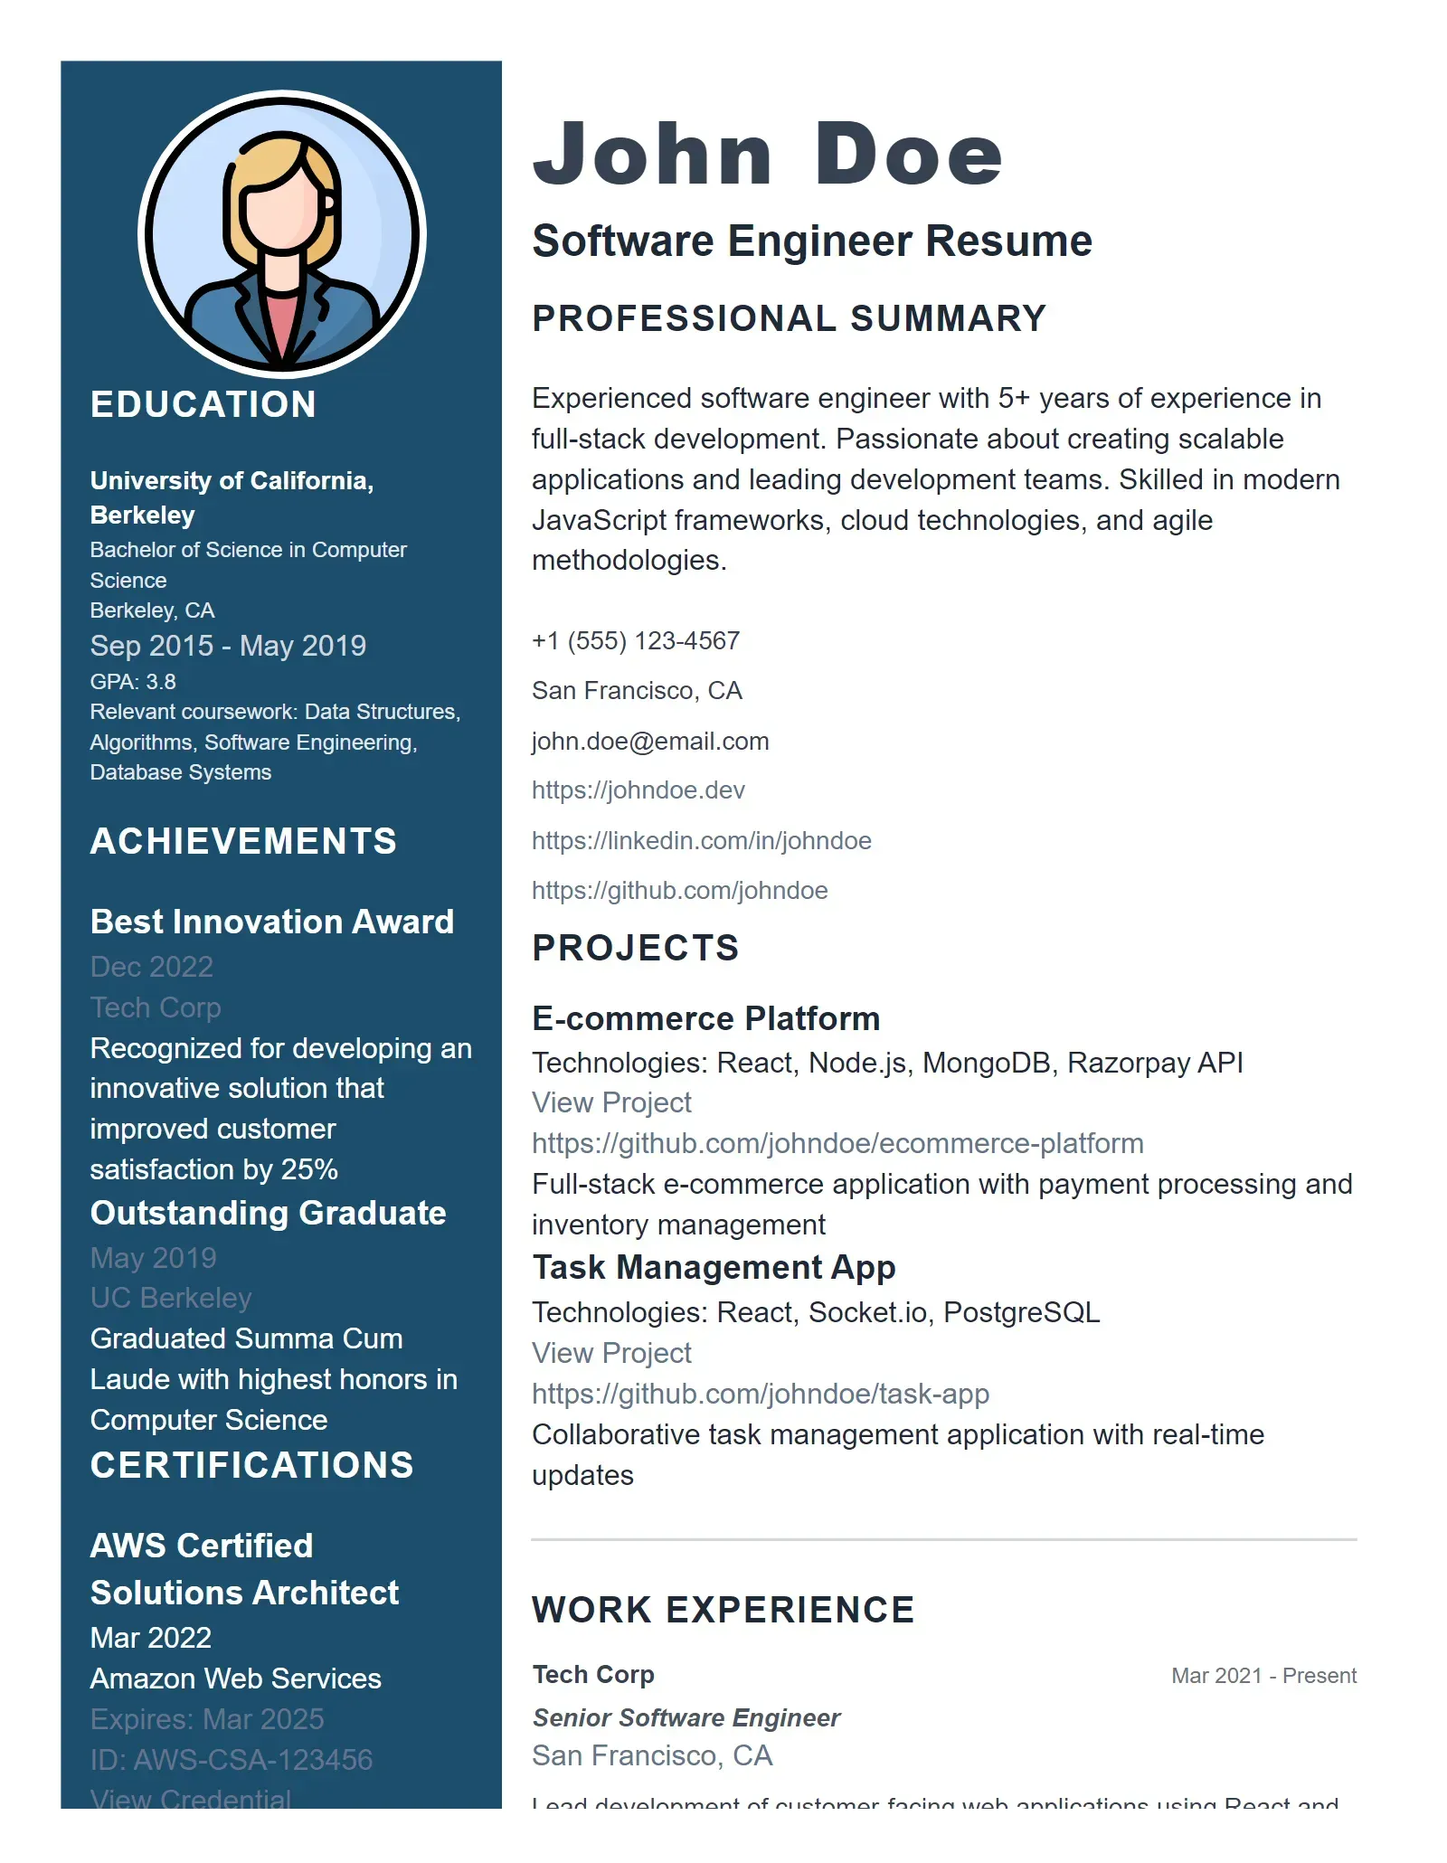
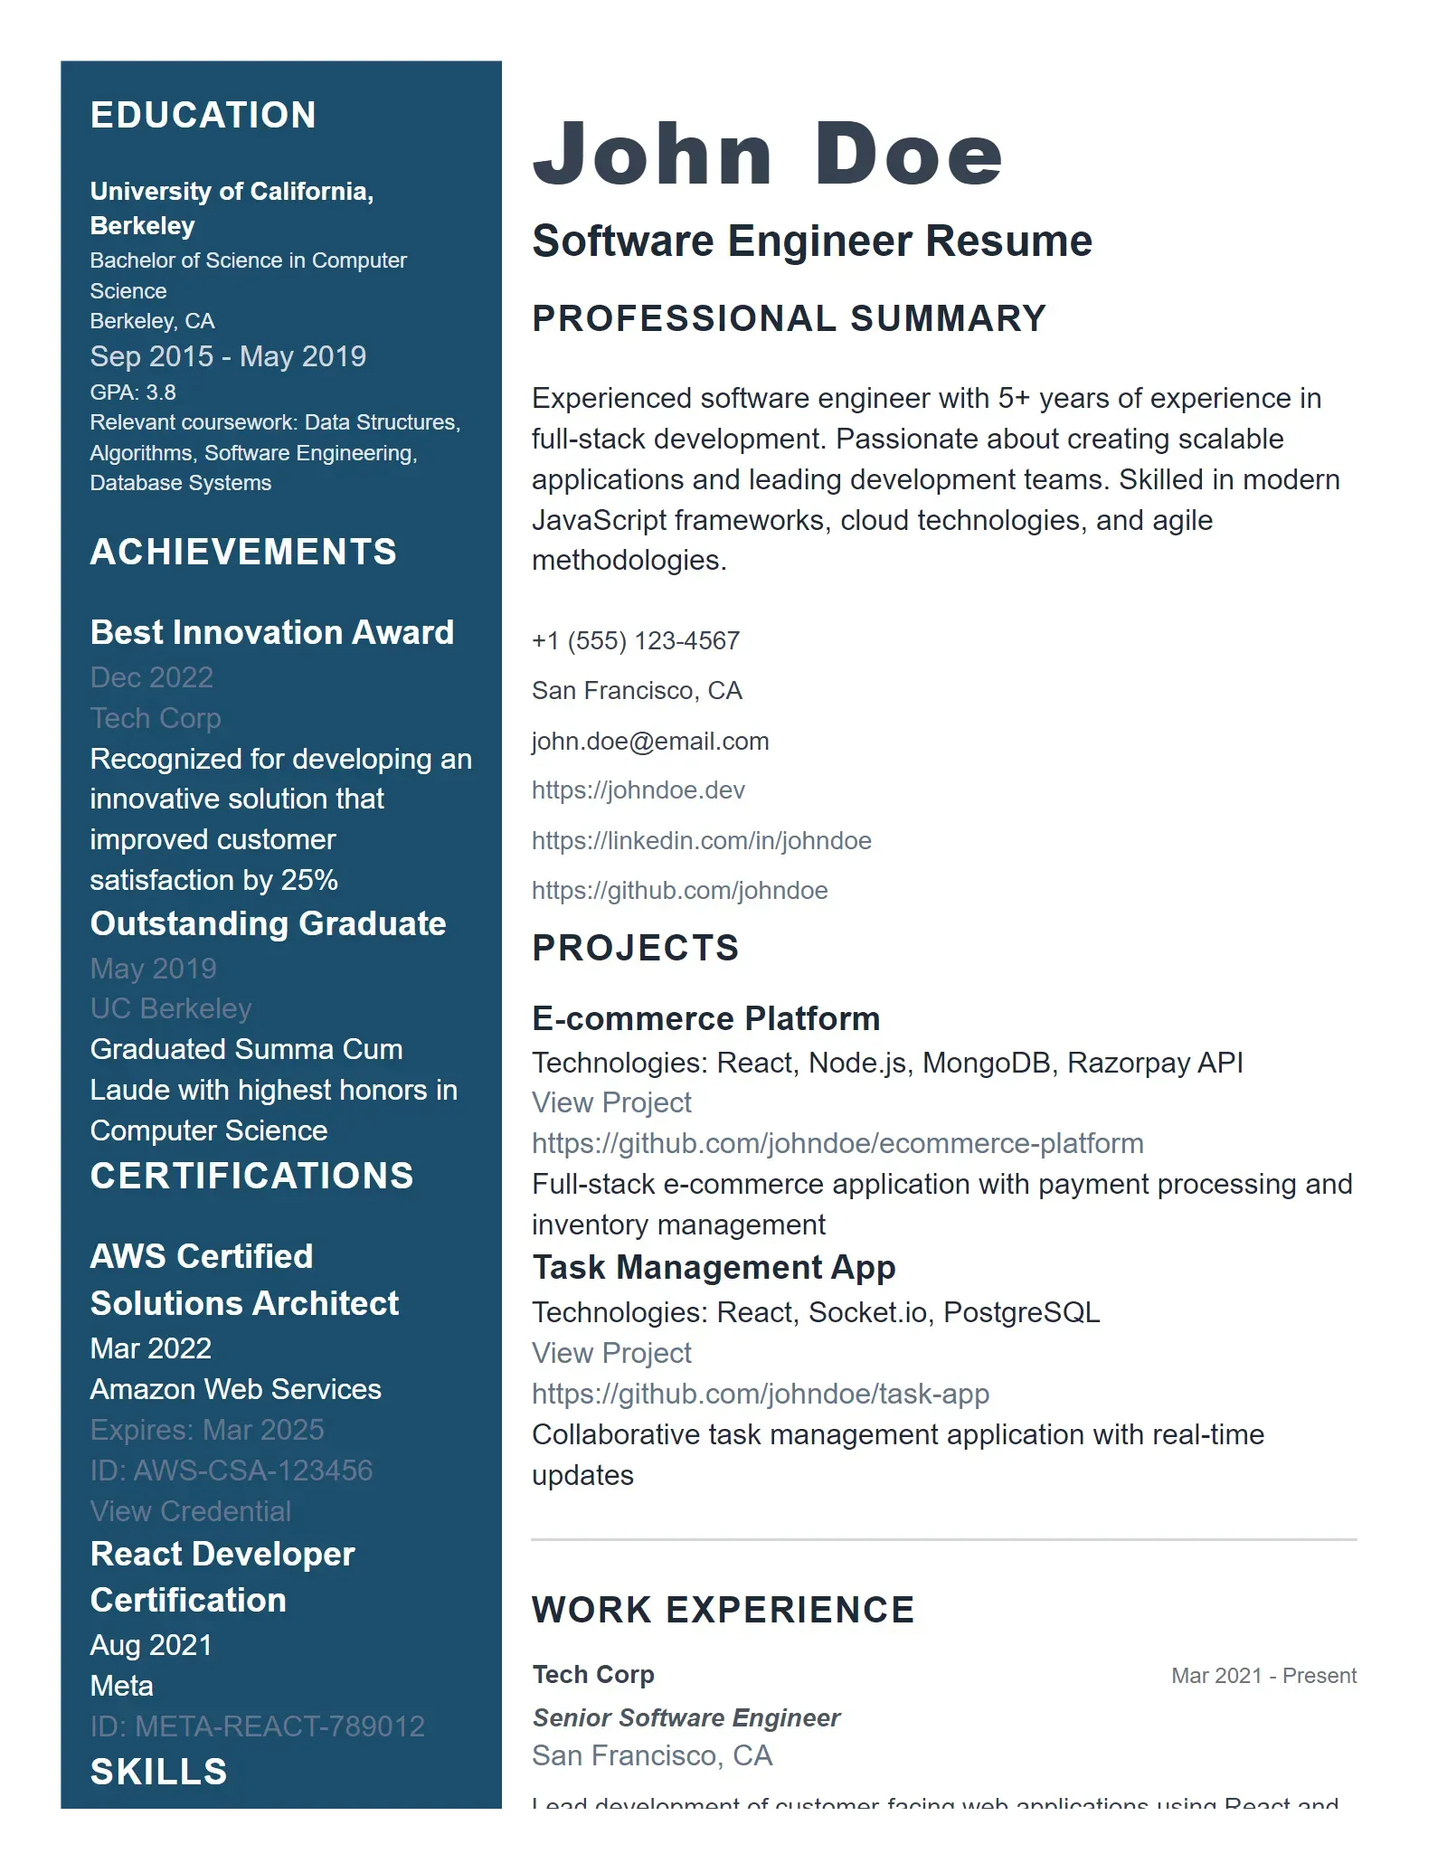
home page annimation and added option for profile image

Changed region(s): [[0.0625, 0.0311, 0.3125, 0.9942]]

diff --git a/resume-builder/src/components/public/HomePage.js b/resume-builder/src/components/public/HomePage.js
@@ -15,6 +15,7 @@ import {
   SunIcon,
   MoonIcon
 } from '@heroicons/react/24/outline';
+import { Fade, Slide, Roll, AttentionSeeker } from 'react-awesome-reveal';
 
 const HomePage = () => {
   const navigate = useNavigate();
@@ -83,6 +84,7 @@ const HomePage = () => {
             </p>
             <div className="flex flex-col sm:flex-row gap-4 justify-center">
               {isAuthenticated ? (
+                <AttentionSeeker duration={3000}>
                 <button
                   onClick={() => navigate(getDashboardRoute())}
                   className="bg-gradient-to-r from-blue-600 to-purple-600 text-white px-8 py-4 rounded-xl font-semibold text-lg hover:from-blue-700 hover:to-purple-700 transition-all duration-200 shadow-lg hover:shadow-xl transform hover:scale-105 flex items-center justify-center gap-2"
@@ -90,8 +92,10 @@ const HomePage = () => {
                   Go to Dashboard
                   <ArrowRightIcon className="w-5 h-5" />
                 </button>
+                </AttentionSeeker>
               ) : (
                 <>
+                  <AttentionSeeker duration={3000}>
                   <button
                     onClick={() => navigate(PUBLIC_ROUTES.REGISTER)}
                     className="bg-gradient-to-r from-blue-600 to-purple-600 text-white px-8 py-4 rounded-xl font-semibold text-lg hover:from-blue-700 hover:to-purple-700 transition-all duration-200 shadow-lg hover:shadow-xl transform hover:scale-105 flex items-center justify-center gap-2"
@@ -99,6 +103,8 @@ const HomePage = () => {
                     Get Started Free
                     <ArrowRightIcon className="w-5 h-5" />
                   </button>
+                  </AttentionSeeker>
+                  <AttentionSeeker duration={3000}>
                   <button
                     onClick={() => navigate(PUBLIC_ROUTES.LOGIN)}
                     className="border-2 border-gray-300 dark:border-gray-600 text-gray-700 dark:text-gray-300 px-8 py-4 rounded-xl font-semibold text-lg hover:bg-gray-50 dark:hover:bg-gray-800 transition-all duration-200 flex items-center justify-center gap-2"
@@ -106,6 +112,7 @@ const HomePage = () => {
                     <UserIcon className="w-5 h-5" />
                     Login
                   </button>
+                  </AttentionSeeker>
                 </>
               )}
             </div>
@@ -116,6 +123,8 @@ const HomePage = () => {
       {/* Features Section */}
       <section className="py-20">
         <div className="max-w-7xl mx-auto px-4 sm:px-6 lg:px-8">
+          
+      <Slide direction="down">
           <div className="text-center mb-16">
             <h2 className="text-3xl sm:text-4xl font-bold text-gray-900 dark:text-white mb-4">
               Why Choose Our Resume Builder?
@@ -124,9 +133,11 @@ const HomePage = () => {
               Everything you need to create a standout resume that gets you noticed by employers.
             </p>
           </div>
+          </Slide>
           
           <div className="grid grid-cols-1 md:grid-cols-2 lg:grid-cols-4 gap-8">
             {features.map((feature, index) => (
+              <Roll delay={index * 100}>
               <div key={index} className="text-center p-6 backdrop-blur-md bg-white/70 dark:bg-orange-50/95 rounded-2xl shadow-xl border border-white/20 dark:border-orange-200/30 hover:shadow-2xl transition-all duration-200">
                 <div className="w-16 h-16 mx-auto mb-4 bg-gradient-to-r from-blue-500 to-purple-500 rounded-2xl flex items-center justify-center">
                   <feature.icon className="w-8 h-8 text-white" />
@@ -138,19 +149,21 @@ const HomePage = () => {
                   {feature.description}
                 </p>
               </div>
+              </Roll>
             ))}
           </div>
         </div>
       </section>
 
       {/* Template Showcase Section */}
-      <TemplateShowcase />
+        <TemplateShowcase />
 
       {/* Stats Section */}
       <section className="py-20">
         <div className="max-w-7xl mx-auto px-4 sm:px-6 lg:px-8">
           <div className="grid grid-cols-2 md:grid-cols-4 gap-8">
             {stats.map((stat, index) => (
+              <Roll delay={index * 100}>
               <div key={index} className="text-center backdrop-blur-md bg-white/70 dark:bg-orange-50/95 rounded-2xl shadow-xl border border-white/20 dark:border-orange-200/30 p-6">
                 <div className="text-4xl sm:text-5xl font-bold mb-2 text-gray-900 dark:text-gray-600">
                   {stat.number}
@@ -159,12 +172,14 @@ const HomePage = () => {
                   {stat.label}
                 </div>
               </div>
+              </Roll>
             ))}
           </div>
         </div>
       </section>
 
       {/* CTA Section */}
+      <Slide direction="up">
       <section className="py-20">
         <div className="max-w-4xl mx-auto px-4 sm:px-6 lg:px-8 text-center">
           <h2 className="text-3xl sm:text-4xl font-bold text-gray-900 dark:text-white mb-4">
@@ -173,6 +188,7 @@ const HomePage = () => {
           <p className="text-xl text-gray-600 dark:text-gray-300 mb-8">
             Join thousands of professionals who have successfully created their resumes with our builder.
           </p>
+          <Fade direction="up">
           <button
             onClick={() => navigate(isAuthenticated ? getDashboardRoute() : PUBLIC_ROUTES.REGISTER)}
             className="bg-gradient-to-r from-blue-600 to-purple-600 text-white px-8 py-4 rounded-xl font-semibold text-lg hover:from-blue-700 hover:to-purple-700 transition-all duration-200 shadow-lg hover:shadow-xl transform hover:scale-105 flex items-center justify-center gap-2 mx-auto"
@@ -180,10 +196,13 @@ const HomePage = () => {
             {isAuthenticated ? 'Go to Dashboard' : 'Start Building Now'}
             <ArrowRightIcon className="w-5 h-5" />
           </button>
+          </Fade>
         </div>
       </section>
+      </Slide>
 
       {/* Footer */}
+      <Slide direction="up">
       <footer className="backdrop-blur-md bg-white/70 dark:bg-transparent border-t border-white/20 dark:border-none py-12">
         <div className="max-w-7xl mx-auto px-4 sm:px-6 lg:px-8">
           <div className="grid grid-cols-1 md:grid-cols-4 gap-8">
@@ -247,6 +266,7 @@ const HomePage = () => {
           </div>
         </div>
       </footer>
+      </Slide>
     </div>
   );
 };

diff --git a/resume-builder/src/components/ResumeForm.js b/resume-builder/src/components/ResumeForm.js
@@ -54,20 +54,31 @@ const FormField = ({
   const readOnlyClasses = readOnly ? "bg-gray-50 dark:bg-gray-50 cursor-not-allowed" : "";
   
   return (
-    <div>
-      <label className="block text-sm font-medium text-gray-900 dark:text-gray-900 mb-2">
+    <div className={`form-field ${type === 'checkbox' ? 'flex items-center space-x-2' : ''}`}>
+      <label className={`block text-sm font-medium text-gray-900 dark:text-gray-900  ${type === 'checkbox' ? 'order-2 ml-2' : 'mb-2'}`}>
         {label} {required && <span className="text-red-500">*</span>}
       </label>
-      <input
-        type={type}
-        value={value}
-        onChange={onChange}
-        onBlur={onBlur}
-        readOnly={readOnly}
-        className={`${baseClasses} ${errorClasses} ${readOnlyClasses} ${className}`}
-        placeholder={placeholder}
-        {...props}
-      />
+      {type === 'checkbox' ? (
+        <input
+          type="checkbox"
+          checked={value}
+          onChange={onChange}
+          onBlur={onBlur}
+          readOnly={readOnly}
+          className="form-checkbox h-5 w-5 text-blue-600 rounded border-gray-300 focus:ring-blue-500"
+        />
+      ) : (
+        <input
+          type={type}
+          value={value}
+          onChange={onChange}
+          onBlur={onBlur}
+          readOnly={readOnly}
+          className={`${baseClasses} ${errorClasses} ${readOnlyClasses} ${className}`}
+          placeholder={placeholder}
+          {...props}
+        />
+      )}
       {error && <p className="text-red-600 text-sm mt-1">{error}</p>}
     </div>
   );
@@ -131,6 +142,10 @@ const saveToLocalStorage = (formData, currentStep, isEditMode) => {
   }
 };
 
+function getProfilePicture(user) {
+  return user.profilePicture?.type === 'avatar' ? user.profilePicture.avatarUrl : user.profilePicture?.type === 'uploaded' ? user.profilePicture.uploadedPhoto.url : '' 
+}
+
 function ResumeForm() {
   const navigate = useNavigate();
   const location = useLocation();
@@ -154,7 +169,9 @@ function ResumeForm() {
       address: '',
       website: '',
       linkedin: '',
-      github: ''
+      github: '',
+      isAddPhoto: false,
+      profilePicture: ''
     },
     summary: '',
     workExperience: [],
@@ -576,6 +593,11 @@ function ResumeForm() {
           newArray[index] = { ...newArray[index], [field]: value };
           return { ...prev, [section]: newArray };
         } else {
+            if(field === 'isAddPhoto') {
+              const profilePicture = getProfilePicture(user);
+              handleInputChange('personalInfo', 'profilePicture', profilePicture)
+            console.log('profilePicture', profilePicture)
+            }
           return {
             ...prev,
             [section]: { ...prev[section], [field]: value }
@@ -829,7 +851,9 @@ function ResumeForm() {
                 address: resumeData.personalInfo?.address || '',
                 website: resumeData.personalInfo?.website || '',
                 linkedin: resumeData.personalInfo?.linkedin || '',
-                github: resumeData.personalInfo?.github || ''
+                github: resumeData.personalInfo?.github || '',
+                isAddPhoto: resumeData.personalInfo?.isAddPhoto || false,
+                profilePicture: resumeData.personalInfo?.isAddPhoto ? getProfilePicture(user) : '' 
               },
               summary: ensureHtmlContent(resumeData.summary || ''),
               workExperience: (resumeData.workExperience || []).map(exp => ({
@@ -1056,7 +1080,7 @@ function ResumeForm() {
     };
 
     checkEditMode();
-  }, [location.state, navigate]); // Added navigate to dependencies to fix eslint warning
+  }, [location.state, navigate, user]); // Added navigate to dependencies to fix eslint warning
 
   // Clear validation errors when moving to step 1 (only title validation is relevant)
   useEffect(() => {
@@ -1628,6 +1652,12 @@ function ResumeForm() {
           value={formData.personalInfo.github}
           onChange={(e) => handleInputChange('personalInfo', 'github', e.target.value)}
           placeholder="https://github.com/johndoe"
+        />
+        <FormField
+          label="Add Photo(From Profile)"
+          type="checkbox"
+          value={formData.personalInfo.isAddPhoto}
+          onChange={(e) => handleInputChange('personalInfo', 'isAddPhoto', e.target.checked)}
         />
       </div>
     </div>

diff --git a/resume-builder/src/components/public/TemplateShowcase.js b/resume-builder/src/components/public/TemplateShowcase.js
@@ -4,6 +4,7 @@ import { templateAPI, apiHelpers } from '../../services/api';
 import { Swiper, SwiperSlide } from 'swiper/react';
 import { Navigation, Pagination, Autoplay, FreeMode, EffectCoverflow } from 'swiper/modules';
 import { useAuth } from '../../contexts/AuthContext';
+import { AttentionSeeker, Fade, Flip } from 'react-awesome-reveal';
 
 // Import Swiper styles
 import 'swiper/css';
@@ -149,6 +150,7 @@ function TemplateShowcase() {
     <section className="py-16 sm:py-20 lg:py-24">
       <div className="max-w-7xl mx-auto px-4 sm:px-6 lg:px-8">
         {/* Section Header */}
+        <Flip direction="vertical" duration={3000}>
         <div className="text-center mb-12 sm:mb-16">
           <h2 className="text-3xl sm:text-4xl lg:text-5xl font-bold text-gray-900 dark:text-white mb-4 sm:mb-6">
             Professional Templates
@@ -158,6 +160,7 @@ function TemplateShowcase() {
             Each template is crafted to help you stand out and land your dream job.
           </p>
         </div>
+        </Flip>
 
         {/* Templates Carousel */}
         <div className="relative">
@@ -303,6 +306,7 @@ function TemplateShowcase() {
         </div>
 
         {/* Call to Action */}
+          <Fade direction="down">
         <div className="text-center mt-12 sm:mt-16">
           <div className="backdrop-blur-md bg-white/70 dark:bg-orange-50/95 rounded-2xl shadow-xl border border-white/20 dark:border-orange-200/30 p-8 sm:p-12 max-w-4xl mx-auto">
             <h3 className="text-2xl sm:text-3xl font-bold text-gray-900 dark:text-gray-500 mb-4">
@@ -312,12 +316,14 @@ function TemplateShowcase() {
               Join thousands of professionals who have already created stunning resumes with our templates.
             </p>
             <div className="flex flex-col sm:flex-row gap-4 justify-center">
+            <AttentionSeeker duration={3000}>
               <button
                 onClick={handleGetStarted}
                 className="bg-gradient-to-r from-blue-600 to-purple-600 hover:from-blue-700 hover:to-purple-700 text-white font-semibold py-3 px-8 rounded-lg transition-all duration-200 transform hover:scale-105 focus:outline-none focus:ring-2 focus:ring-blue-500 focus:ring-offset-2 dark:focus:ring-offset-gray-800"
               >
                 {isAuthenticated ? 'Go to Dashboard' : 'Get Started Free'}
               </button>
+            </AttentionSeeker>
               <button
                 onClick={() => navigate('/contact-us')}
                 className="bg-transparent border-2 border-gray-300 dark:border-gray-600 hover:border-gray-400 dark:hover:border-gray-500 text-gray-700 dark:text-gray-500 hover:text-gray-900 dark:hover:text-gray-400 font-semibold py-3 px-8 rounded-lg transition-all duration-200 focus:outline-none focus:ring-2 focus:ring-gray-500 focus:ring-offset-2 dark:focus:ring-offset-gray-800"
@@ -327,6 +333,8 @@ function TemplateShowcase() {
             </div>
           </div>
         </div>
+            </Fade>
+        
       </div>
     </section>
   );

diff --git a/backend/routes/resumes.js b/backend/routes/resumes.js
@@ -926,6 +926,17 @@ router.get('/:id/download/pdf', protect, async (req, res) => {
     // Initialize template renderer
     const renderer = new OptimizedTemplateRenderer();
 
+    if(resume.isAddPhoto) {
+    const response = await axios.get(resume.personalInfo.profilePicture, {
+        responseType: "arraybuffer",
+        timeout: 8000
+      });
+      const contentType = response.headers["content-type"] || "image/jpeg";
+      const base64 = Buffer.from(response.data, "binary").toString("base64");
+      const dataUrl = `data:${contentType};base64,${base64}`;
+      resume.personalInfo.profilePicture = dataUrl;
+    }
+
     // Prepare resume data for rendering
     const resumeData = {
       title: resume.title,
@@ -1040,9 +1051,6 @@ router.get('/:id/download/pdf', protect, async (req, res) => {
     // Create PDF using Puppeteer. Use Sparticuz Chromium on Linux (Render), fallback locally
     const isLinux = process.platform === 'linux';
     let executablePath;
-    let launchArgs;
-    let defaultViewport;
-    let headlessOption;
 
     if (isLinux) {
       try {
@@ -1072,6 +1080,7 @@ router.get('/:id/download/pdf', protect, async (req, res) => {
 
     // Use shared browser
     const pdfBuffer = await withPage(async (page) => {
+      
       await page.emulateMediaType('print');
       await page.setContent(htmlContent, { waitUntil: 'networkidle0' });
       // Conditionally inject margin CSS
@@ -1094,7 +1103,11 @@ router.get('/:id/download/pdf', protect, async (req, res) => {
       //     `
       //   });
       // }
+
+      // Small buffer for stability
+      await page.waitForTimeout(300);
       await page.evaluateHandle('document.fonts.ready');
+      await page.emulateMediaType('print');
 
       return await page.pdf({
         format: 'A4',
@@ -2091,7 +2104,12 @@ router.put('/:id', [
 
     allowedFields.forEach(field => {
       if (req.body[field] !== undefined) {
-        resume[field] = req.body[field];
+        if (field === 'personalInfo' && typeof req.body.personalInfo === 'object') {
+          // Merge personalInfo to avoid overwriting profilePicture and isAddPhoto
+          Object.assign(resume.personalInfo, req.body.personalInfo);
+        } else {
+          resume[field] = req.body[field];
+        }
       }
     });
 
@@ -2702,4 +2720,4 @@ router.get('/color-presets', protect, async (req, res) => {
   }
 });
 
-module.exports = router; 
+module.exports = router;

diff --git a/backend/assets/academicTemplate.js b/backend/assets/academicTemplate.js
@@ -287,7 +287,7 @@ module.exports = [
         html: `<article class="resume professional-academic-research" itemscope itemtype="http://schema.org/Person">
                 <main>
                 <div class="sidebar">
-                {{#if personalInfo.profilePicture}}
+                {{#if personalInfo.isAddPhoto}}
                 <div class="profile-image-container">
                 <img alt="Profile picture of user" class="profile-image" src="{{personalInfo.profilePicture}}"/>
                 </div>

diff --git a/backend/models/Resume.js b/backend/models/Resume.js
@@ -62,7 +62,11 @@ const resumeSchema = new mongoose.Schema({
     profilePicture: {
       type: String,
       trim: true,
-      maxlength: [500, 'Profile picture URL cannot exceed 500 characters']
+      maxlength: [5000, 'Profile picture URL cannot exceed 500 characters']
+    },
+    isAddPhoto: {
+      type: Boolean,
+      default: false
     }
   },
   

diff --git a/resume-builder/src/components/TemplateSelection.js b/resume-builder/src/components/TemplateSelection.js
@@ -270,7 +270,7 @@ function TemplateSelection() {
               slideShadows: false,
             }}
             modules={[Navigation, Pagination, Autoplay, EffectCoverflow, FreeMode]}
-            spaceBetween={20}
+            spaceBetween={30}
             slidesPerView={1}
             centeredSlides={true}
             loop={true}
